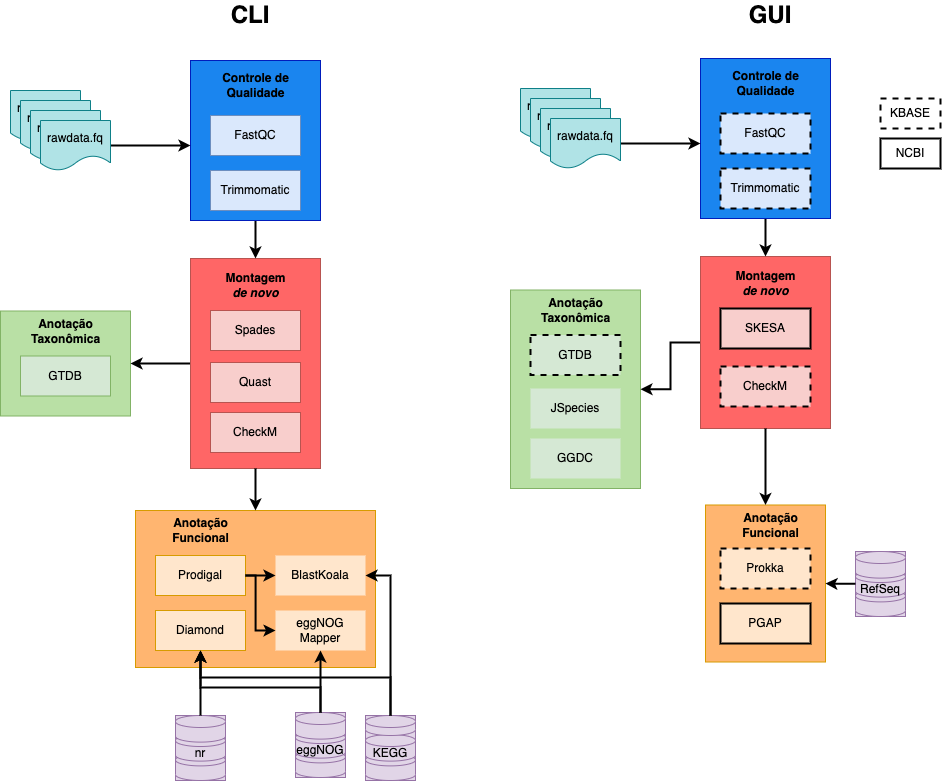
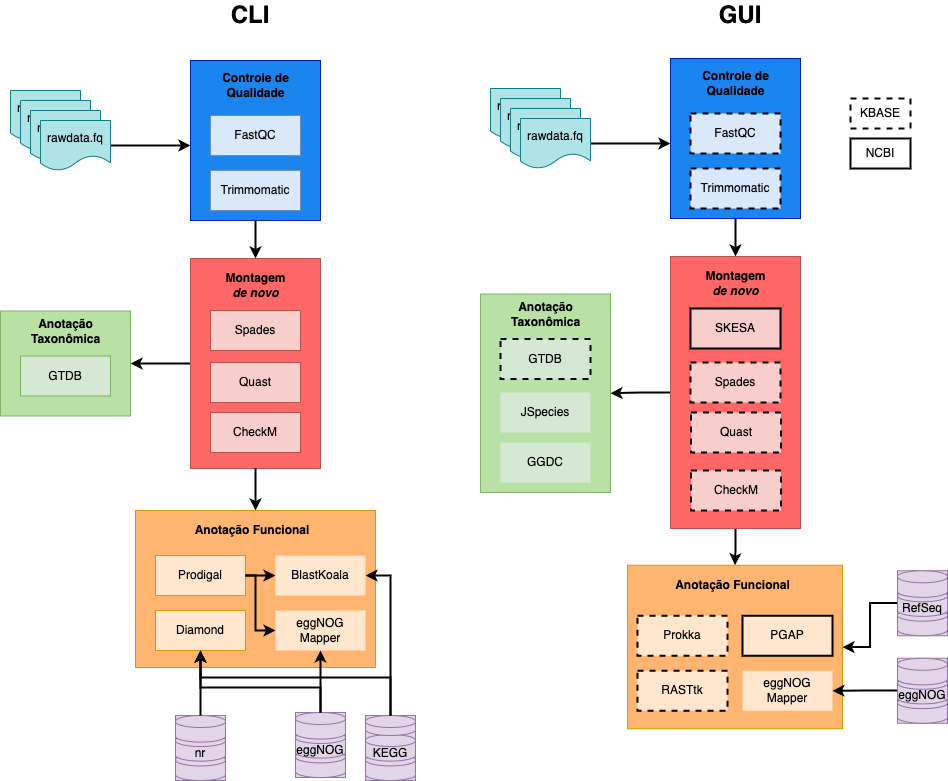
update

diff --git a/README.md b/README.md
@@ -51,6 +51,11 @@ usando o protocolo *paired-end* (2 x 250 bp) de cepa bacteriana EP216.
 -   `216_R1.fastq`
 -   `216_R2.fastq`
 
+Para descarregar os arquivos
+[R1](https://drive.google.com/file/d/1JOMlc0U3Kku0ukvgLMbQG3mMoy5KvBkJ/view?usp=sharing)
+e
+[R2](https://drive.google.com/file/d/1JPB5FFk0WHC6AiEkDeokB3DkCPwI_EZ4/view?usp=sharing).
+
 > **Dica:** Usualmente os arquivos são entregues com nomes codificados
 > do equipamento usado para o sequenciamento que não são informativos
 > para o usuário. Sempre renomee os arquivos com palavras de fácil
@@ -530,7 +535,43 @@ report* onde poderá explorar todas as métricas de qualidade.
 
 A montagem (*SPAdes.Assembly*) deve aparecer na aba *DATA*.
 
-### 2.2. Avaliação da montagem
+### 2.2. Skesa
+
+Os desenvolvedores do NCBI criaram a plataforma automatizada
+[**RAPT**](https://ncbiinsights.ncbi.nlm.nih.gov/2021/05/12/assemble-annotate-prokaryotic-genomes-webrapt/)
+de montagem e anotação funcional. O montador é a ferramenta
+[Skesa](https://genomebiology.biomedcentral.com/articles/10.1186/s13059-018-1540-z).
+A anotação funcional segue o pipeline
+[PGAP](https://www.ncbi.nlm.nih.gov/genome/annotation_prok/), o qual usa
+como base de dados RefSeq proteins.
+
+<img src="imgs/RAPT_pipeline.png" align="center"/>
+
+Para realizar a montagem se deve submeter os arquivos R1 e R2 filtrados
+por qualidade, obtidos do KBase. Acesse à plataform
+[aqui](https://www.ncbi.nlm.nih.gov/rapt?utm_source=blog&utm_medium=referral&utm_campaign=rapt&utm_term=web&utm_content=20210512link1).
+Lembre-se que deve se cadastrar com uma conta do NCBI.
+
+<img src="imgs/RAPT_submit.png" align="center"/>
+
+O processo demorará aproximadamente 2 horas e os resultados ficaram
+disponíveis na nuvem durante 6 semanas.
+
+<img src="imgs/RAPT_work_done.png" align="center"/>
+
+Sete arquivos serão gerados e deveram ser descarregados no computador.
+Este arquivos incluem:
+
+<img src="imgs/RAPT_list_output.png" align="center"/>
+
+-   **skesa\_out.fa**: montagem em formato fasta
+-   **assembly\_stat\_report.tsv**: relatório da qualidade da montagem
+    (número de contigs, N50, etc)
+-   **ani-tax-report.txt**: relatório de identificação baseado em ANI.
+-   **annot.**\*: Anotação funcional dos genes preditos em diferentes
+    formatos.
+
+### 2.3. Avaliação da montagem
 
 Contigs com tamanho menor de 600 bp não tem um valor representativo na
 montagem, é recomendável filtrar essas sequências. Dentro do KBase
@@ -592,6 +633,16 @@ abordagens.
 
 <img src="imgs/kbase18.png" align="center"/>
 
+A identificação taxonômica com dados genômicos pode ser realizada com
+base nas métricas OGRI, que incluem o ANI e dDDH. Para calcular estas
+métricas, submeta a montagem no seguintes sites: \*
+[JSpecies](https://jspecies.ribohost.com/jspeciesws/) \* [Genome to
+genome distance
+calculator](https://www.dsmz.de/services/online-tools/genome-to-genome-distance-calculator-ggdc)
+
+Ao calcular estas métricas, deve ser incluidos os genomas de referência
+das linhagens tipo mais próximas filogenéticamente.
+
 ## 4. Anotação Funcional
 
 Dentro do KBase tem várias opções para fazer a assignação funcional,
@@ -619,3 +670,46 @@ procurar genes, além de uma aba para explorar os contigs.
 Na seção *Report* tem também uma tabela interativa menos detalhada com
 os genes anotados. *Summary* apresenta um resumo da análise, com números
 de genes encontrados, no codificantes, etc.
+
+**Prokka**
+
+Em construção…
+
+**eggNOG Mapper**
+
+Esta ferramenta permite realizar a anotação funcional de sequências
+genômicas ou de um conjunto de genes preditos em formato fasta. Nas
+opções avançadas, a plataforma permite alterar vários parâmetros como o
+tipo de base de dados, o alinhador, a cobertura e o porcentagem de
+identidade, etc. Ao submeter a montagem, deve-se preencher o campo
+*Email address* para receber uma mensagem com um link que inicia o
+processo.
+
+<img src="imgs/kbase21.png" align="center"/>
+
+Quando o processo acabar, você pode explorar as anotações na parte
+inferior do site. A busca pode ser feita baseado em nome ou código do
+gene. Alternativamente, pode descarregar a tabela de anotações em
+diferentes formatos (csv, excel, gff, etc)
+
+<img src="imgs/eggnog1.png" align="center"/>
+
+# Outras plataformas
+
+-   [PATRIC](https://patricbrc.org/) /
+    [Tutorial](https://docs.patricbrc.org/user_guides/services/genome_annotation_service.html)
+-   [Galaxy](https://usegalaxy.org/) /
+    [Tutorial](https://usegalaxy.org/welcome/new)
+-   [BlastKOALA](https://www.kegg.jp/blastkoala/) /
+    [Tutorial](https://www.kegg.jp/blastkoala/help_blastkoala.html)
+
+# Conclusões
+
+A pesar que as ferramentas apresentadas neste tutorial são executadas
+baseadas em um pipeline, elas se complementan e podem ser usadas sem
+seguir uma sequência.
+
+Imprevistos ou periodos de manutenção podem interromper a
+disponibilidade das ferramentas online. De tal forma que estar
+familiarizado com a linha de comando deve ser uma prioridade para o
+usuário.
